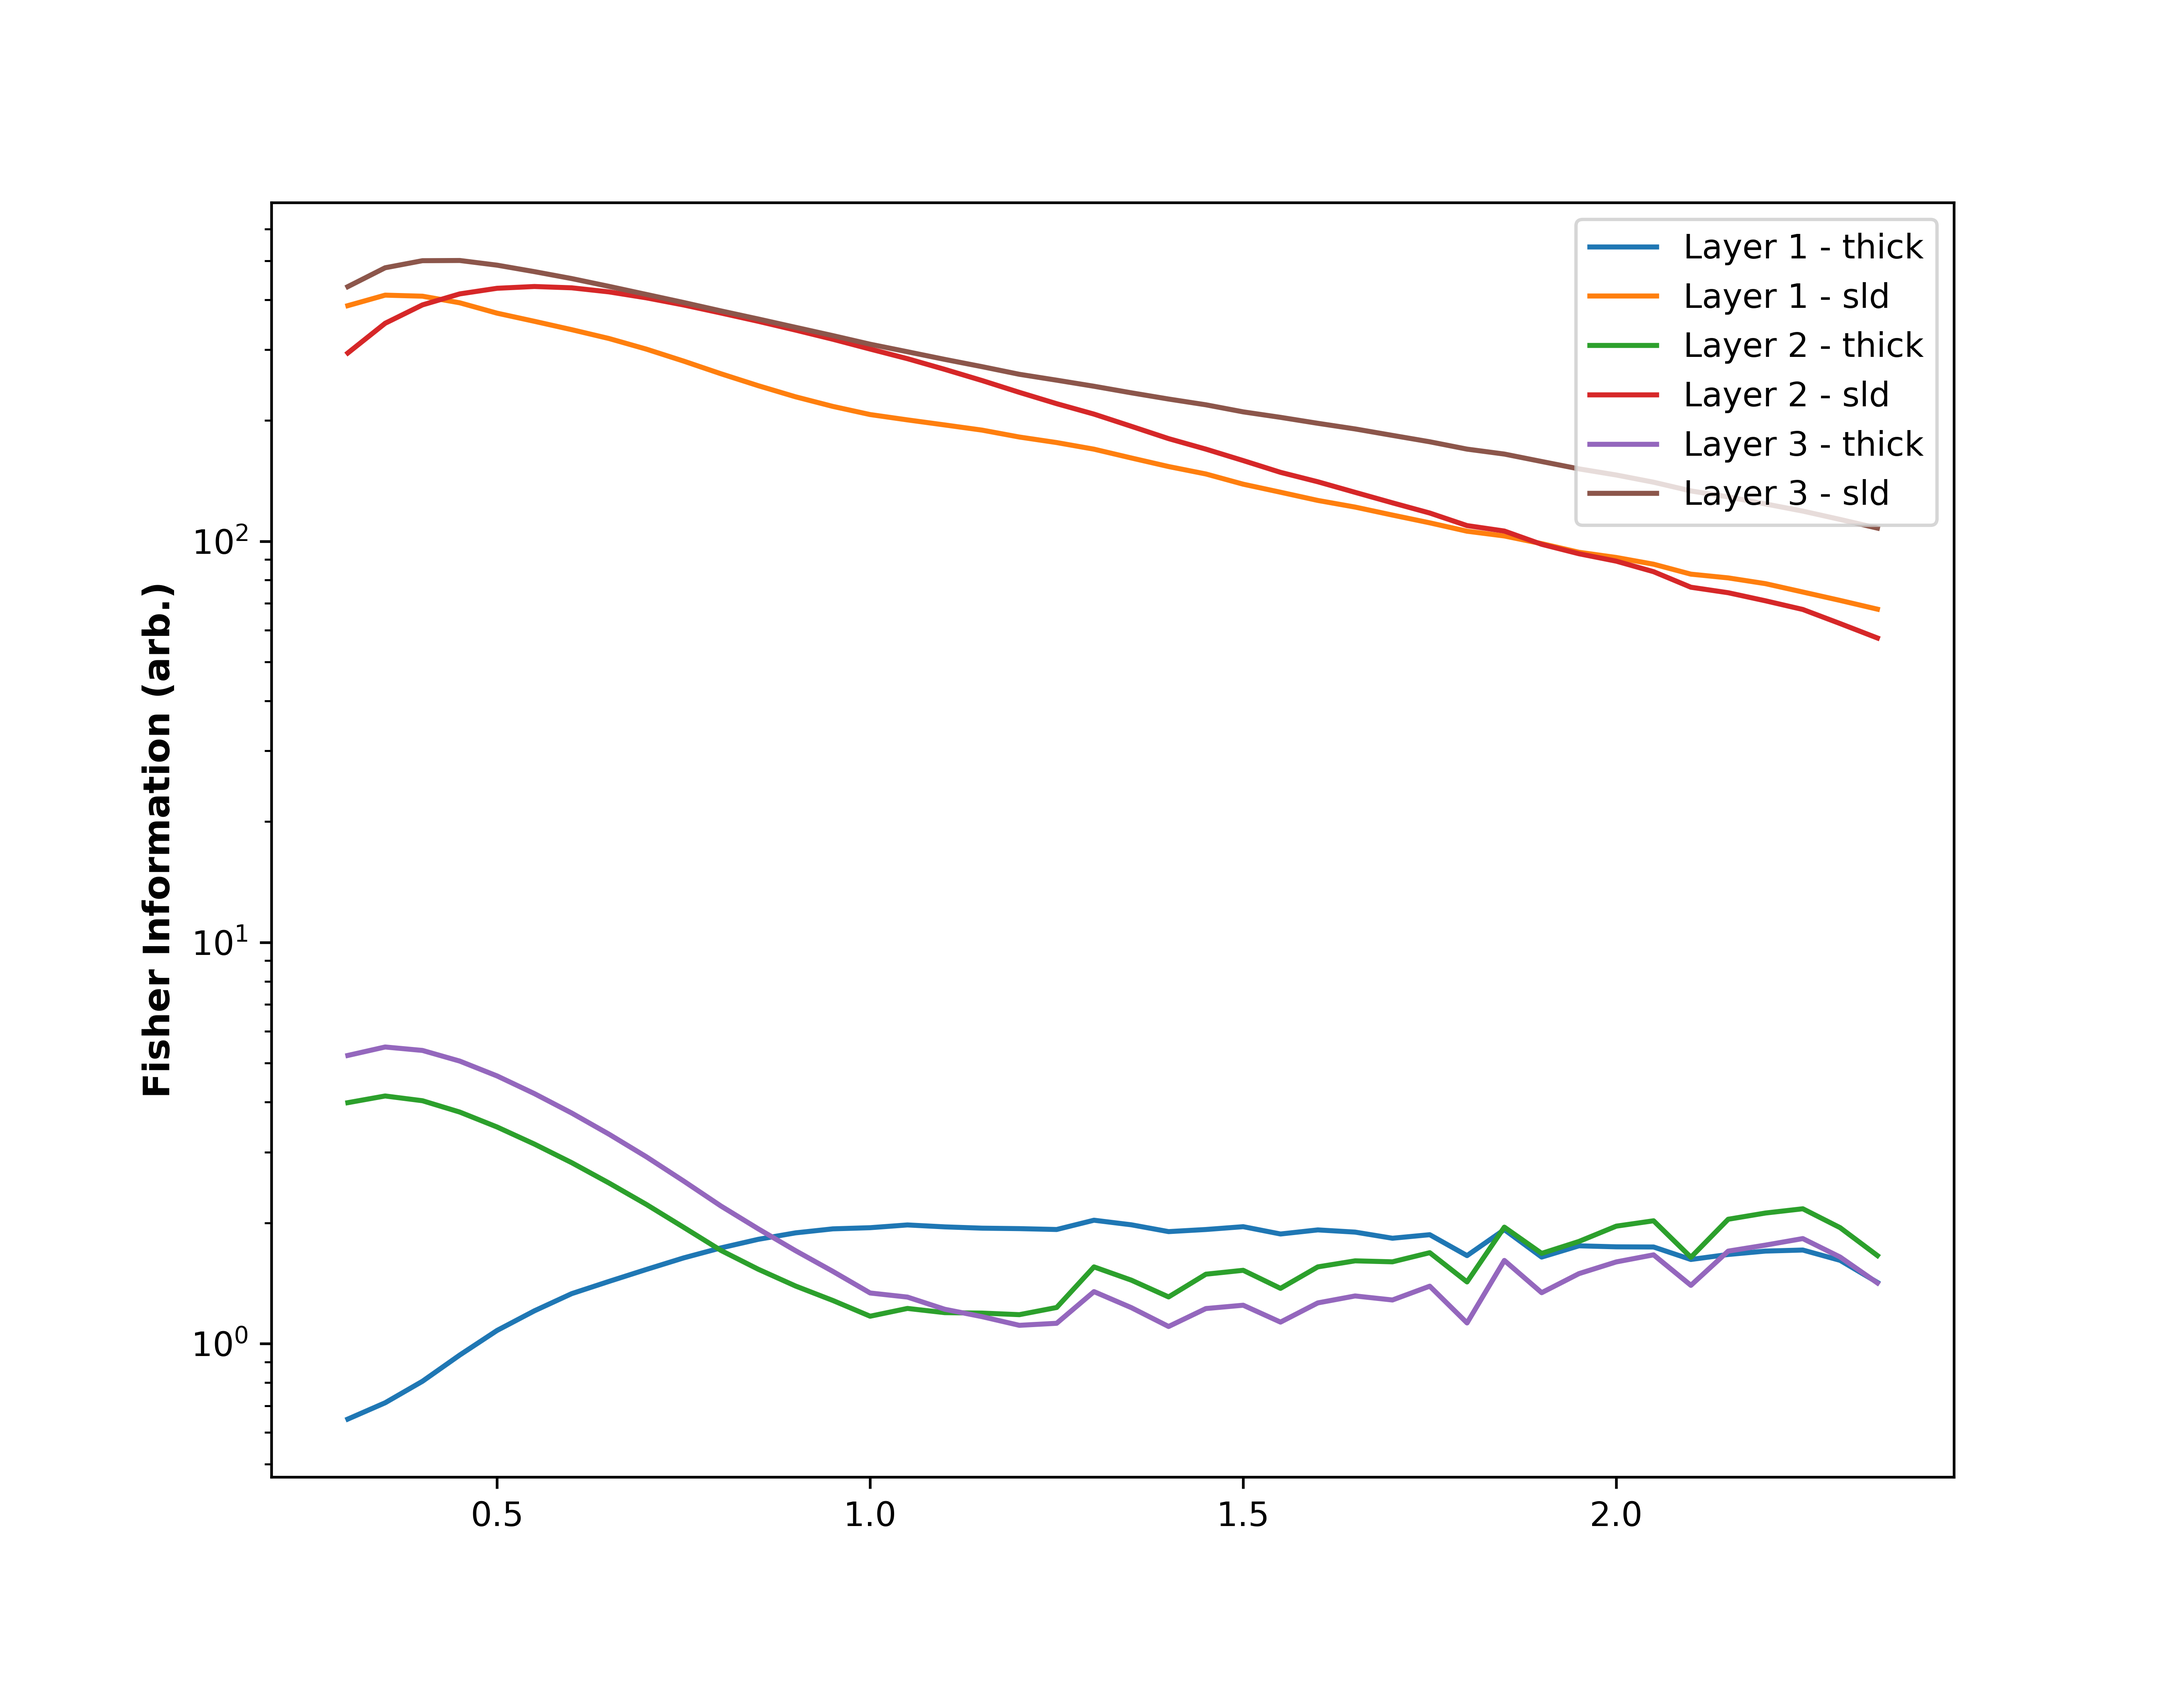
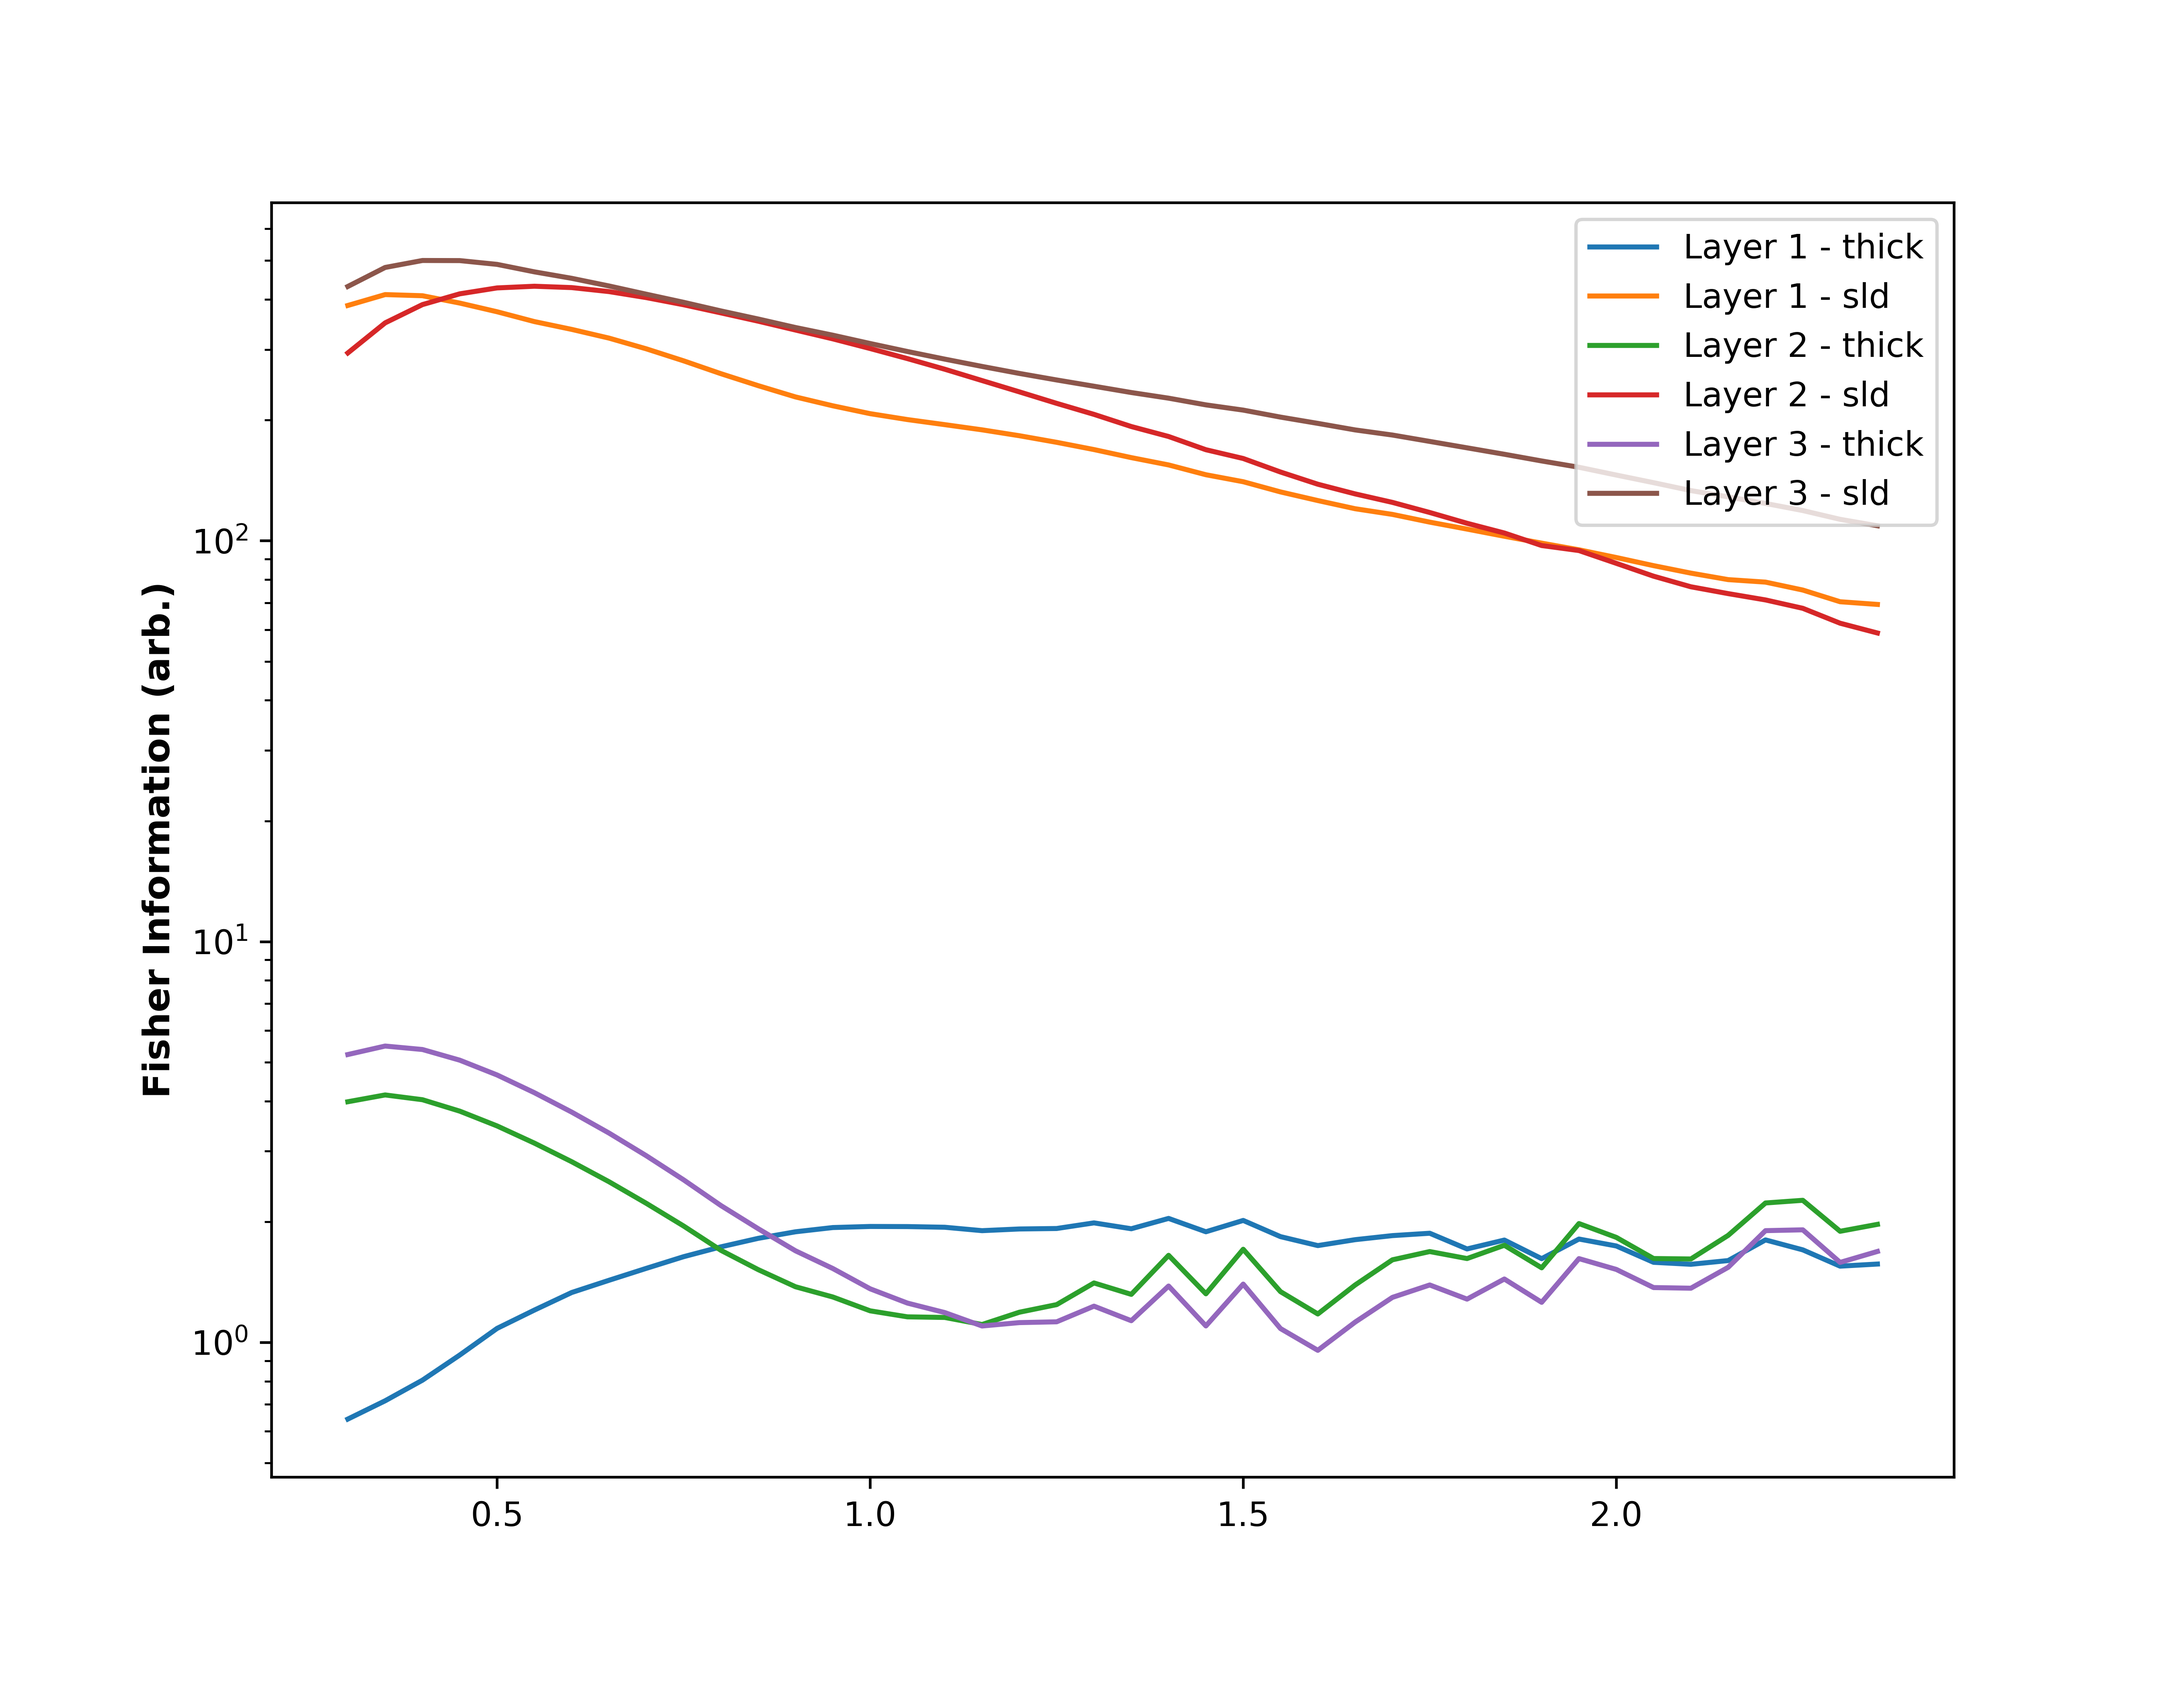
Added second angle choice results

Changed region(s): [[0.3733, 0.6862, 0.8711, 0.811], [0.8089, 0.3431, 0.8711, 0.3743], [0.7467, 0.3119, 0.7778, 0.3431]]

diff --git a/demo/contrast_choice.py b/demo/contrast_choice.py
@@ -1,9 +1,11 @@
 import numpy as np
+import sys
+sys.path.append('../fisher-information')
 
 from refnx.reflect import SLD, Slab, Structure
 from refnx.analysis import Parameter
 
-from utils import first_contrast_choice, second_contrast_choice
+from experimental_design import first_contrast_choice, second_contrast_choice
 
 class Bilayer():
     """Defines a model describing an asymmetric bilayer."""

diff --git a/fisher-information/simulate.py b/fisher-information/simulate.py
@@ -11,7 +11,7 @@ from refnx.analysis import Objective
 
 from plotting import plot_objective
 
-DIRECTBEAM_PATH = './data/directbeam/directbeam_wavelength.dat'
+DIRECTBEAM_PATH = '../fisher-information/data/directbeam/directbeam_wavelength.dat'
 AngleTimes = Dict[float, Tuple[int, float]]
 
 def simulate_single_contrast(structure: Structure, angle_times: AngleTimes, scale: float=1, bkg: float=1e-7,

diff --git a/demo/angle_choice.py b/demo/angle_choice.py
@@ -1,7 +1,9 @@
 import numpy as np
+import sys
+sys.path.append('../fisher-information')
 
 from refnx.reflect import SLD, Structure
-from utils import first_angle_choice, second_angle_choice
+from experimental_design import first_angle_choice, second_angle_choice
 
 def similar_sld_sample() -> Structure:
     """Defines a structure describing a sample with similar layer SLDs."""

diff --git a/demo/underlayer.py b/demo/underlayer.py
@@ -1,9 +1,11 @@
 import numpy as np
+import sys
+sys.path.append('../fisher-information')
 
 from refnx.reflect import SLD, Slab, Structure
 from refnx.analysis import Parameter
 
-from utils import thickness_choice
+from experimental_design import thickness_choice
 
 class Bilayer:
     """Defines a model describing a symmetric bilayer."""
